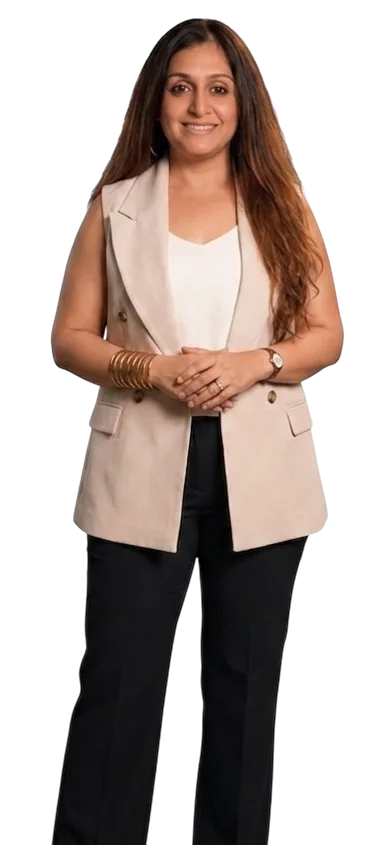
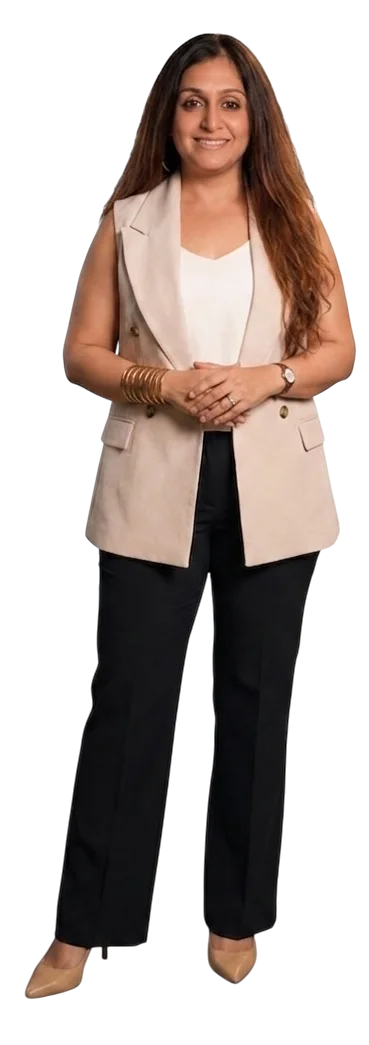
updated loading animation[1]

diff --git a/components/about/FounderSpotlight.tsx b/components/about/FounderSpotlight.tsx
@@ -10,66 +10,74 @@ export function FounderSpotlight() {
 
   return (
     <section className="bg-kio-primary relative overflow-hidden">
-      {/* Transparent gradient wash- fades accent colours into the dark
-          section background rather than a flat tint. */}
-      <div
-        aria-hidden="true"
-        className="pointer-events-none absolute inset-0"
-        style={{
-          background:
-            "radial-gradient(ellipse 65% 55% at 78% 45%, rgba(59,130,246,0.16), transparent 70%), radial-gradient(ellipse 45% 40% at 10% 85%, rgba(6,182,212,0.10), transparent 70%)",
-        }}
-      />
-
       {/* Whole section content (copy + photo) centered as one group- the
           negative margins let the photo overlap the text block's edge
           instead of the two halves sitting apart with dead space between. */}
       <div className="container-kio relative z-10 flex flex-col items-center gap-10 py-16 text-center md:py-20 lg:flex-row lg:justify-center lg:gap-0 lg:py-24 lg:text-left">
         {/* ── Left: copy ── */}
-        <div className="relative z-10 lg:-mr-10">
+        <div className="relative z-10 lg:-mr-10 lg:-translate-x-46">
           <RevealOnScroll>
             <p className="section-label">Founder</p>
           </RevealOnScroll>
 
           <RevealOnScroll delay={0.1}>
             <h2 className="mt-6 text-3xl font-bold text-white md:text-4xl lg:text-5xl">
-              Henal Dalal
+              HENAL DALAL
             </h2>
-            <div className="mx-auto mt-6 h-px max-w-md bg-white/15 lg:mx-0" />
+            
           </RevealOnScroll>
 
           <RevealOnScroll delay={0.2}>
             <blockquote className="relative mx-auto mt-8 max-w-md lg:mx-0">
               <Quote className="h-7 w-7 -scale-x-100 text-kio-accent/70" fill="currentColor" />
               <p className="mt-3 text-lg leading-relaxed text-white/80 sm:text-xl">
-                My dream is to make{" "}
-                <span className="text-color-cycle font-semibold">hospitality accessible to all without boundaries</span>, 24/7.
+                My dream is to make
+                <br />
+                <span className="text-color-cycle font-semibold">hospitality accessible </span>
+                <br />
+                <span className="text-white/80">to all without boundaries</span>,
+                <br />
+                <span className="text-color-cycle font-semibold">24/7.</span>
               </p>
             </blockquote>
           </RevealOnScroll>
         </div>
 
         {/* ── Right: photo ── */}
-        <motion.div
-          initial={rm ? false : { opacity: 0, x: 28 }}
-          whileInView={{ opacity: 1, x: 0 }}
-          viewport={{ once: true }}
-          transition={{ duration: 0.75, ease: [0.16, 1, 0.3, 1] }}
-          className="relative h-[420px] w-[280px] shrink-0 sm:h-[480px] sm:w-[320px] lg:-ml-12 lg:h-[600px] lg:w-[380px]"
-        >
-          {/* unoptimized: Next's AVIF re-encode flattens this PNG's
-              transparent background to opaque white- serving the source
-              file directly keeps the cutout transparent. */}
-          <Image
-            src="/img/team/ceo.png"
-            alt="Henal Dalal, Founder of Kiosist"
-            fill
-            priority
-            unoptimized
-            className="object-contain object-center scale-110"
-            sizes="(max-width: 1023px) 320px, 380px"
+        {/* Static positioning wrapper- framer-motion's own `animate` sets its
+            own inline `transform` (x) on its element, which would otherwise
+            clobber a Tailwind translate-x placed on the same node. */}
+        <div className="relative h-[420px] w-[280px] shrink-0 sm:h-[480px] sm:w-[320px] lg:-ml-12 lg:h-[600px] lg:w-[380px] lg:translate-x-20">
+          {/* Glow anchored to this wrapper- moves with the photo instead of
+              being pinned to a fixed percentage of the whole section. */}
+          <div
+            aria-hidden="true"
+            className="pointer-events-none absolute -inset-10 -z-10 rounded-full sm:-inset-14"
+            style={{
+              background: "radial-gradient(ellipse 60% 55% at 50% 45%, rgba(59,130,246,0.30), transparent 70%)",
+            }}
           />
-        </motion.div>
+          <motion.div
+            initial={rm ? false : { opacity: 0, x: 28 }}
+            whileInView={{ opacity: 1, x: 0 }}
+            viewport={{ once: true }}
+            transition={{ duration: 0.75, ease: [0.16, 1, 0.3, 1] }}
+            className="relative h-full w-full"
+          >
+            {/* unoptimized: Next's AVIF re-encode flattens this PNG's
+                transparent background to opaque white- serving the source
+                file directly keeps the cutout transparent. */}
+            <Image
+              src="/img/team/ceo.png"
+              alt="Henal Dalal, Founder of Kiosist"
+              fill
+              priority
+              unoptimized
+              className="object-contain object-center scale-110"
+              sizes="(max-width: 1023px) 320px, 380px"
+            />
+          </motion.div>
+        </div>
       </div>
     </section>
   );

diff --git a/components/global/AmbientGlow.tsx b/components/global/AmbientGlow.tsx
@@ -1,6 +1,7 @@
 "use client";
 
-import { motion, useReducedMotion } from "framer-motion";
+import { motion, useReducedMotion, useTransform } from "framer-motion";
+import { pageScrollY } from "@/lib/pageScroll";
 
 type Blob = {
   color: "accent" | "accent2";
@@ -9,7 +10,6 @@ type Blob = {
   bottom?: string;
   left?: string;
   right?: string;
-  x: number;
   y: number;
   scaleMin: number;
   scaleMax: number;
@@ -18,11 +18,40 @@ type Blob = {
 };
 
 /* Floating glow blobs- pulse between small and large while drifting
-   around their corner, shared across every page as the animated backdrop. */
+   left/right with scroll, shared across every page as the animated backdrop. */
 const BLOBS: Blob[] = [
-  { color: "accent",  size: 600, top: "-100px",   right: "-100px", x: 40,  y: -30, scaleMin: 0.85, scaleMax: 1.2,  duration: 10, delay: 0   },
-  { color: "accent2", size: 400, bottom: "50px",   left: "-80px",  x: -35, y: 40,  scaleMin: 0.8,  scaleMax: 1.25, duration: 13, delay: 2   },
+  { color: "accent",  size: 600, top: "-100px",   right: "-100px", y: -30, scaleMin: 0.85, scaleMax: 1.2,  duration: 10, delay: 0   },
+  { color: "accent2", size: 400, bottom: "50px",   left: "-80px",  y: 40,  scaleMin: 0.8,  scaleMax: 1.25, duration: 13, delay: 2   },
 ];
+
+function GlowBlob({ blob, rm, range }: { blob: Blob; rm: boolean | null; range: number }) {
+  const scrollX = useTransform(pageScrollY, [0, 2400], [-range, range]);
+
+  return (
+    <motion.div
+      className="absolute rounded-full"
+      style={{
+        width:  blob.size,
+        height: blob.size,
+        top:    blob.top,
+        bottom: blob.bottom,
+        left:   blob.left,
+        right:  blob.right,
+        x: rm ? 0 : scrollX,
+        background: `radial-gradient(circle, color-mix(in srgb, var(--kio-${blob.color}) ${blob.color === "accent" ? 30 : 20}%, transparent) 0%, transparent 70%)`,
+      }}
+      animate={
+        rm
+          ? {}
+          : {
+              scale: [blob.scaleMin, blob.scaleMax, blob.scaleMin],
+              y: [0, blob.y, 0],
+            }
+      }
+      transition={{ duration: blob.duration, repeat: Infinity, ease: "easeInOut", delay: blob.delay }}
+    />
+  );
+}
 
 export function AmbientGlow() {
   const rm = useReducedMotion();
@@ -30,29 +59,7 @@ export function AmbientGlow() {
   return (
     <div aria-hidden="true" className="pointer-events-none fixed inset-0 z-0 overflow-hidden">
       {BLOBS.map((b, i) => (
-        <motion.div
-          key={i}
-          className="absolute rounded-full"
-          style={{
-            width:  b.size,
-            height: b.size,
-            top:    b.top,
-            bottom: b.bottom,
-            left:   b.left,
-            right:  b.right,
-            background: `radial-gradient(circle, color-mix(in srgb, var(--kio-${b.color}) ${b.color === "accent" ? 30 : 20}%, transparent) 0%, transparent 70%)`,
-          }}
-          animate={
-            rm
-              ? {}
-              : {
-                  scale: [b.scaleMin, b.scaleMax, b.scaleMin],
-                  x: [0, b.x, 0],
-                  y: [0, b.y, 0],
-                }
-          }
-          transition={{ duration: b.duration, repeat: Infinity, ease: "easeInOut", delay: b.delay }}
-        />
+        <GlowBlob key={i} blob={b} rm={rm} range={i === 0 ? 140 : 100} />
       ))}
     </div>
   );

diff --git a/components/culture/EventsTimeline.tsx b/components/culture/EventsTimeline.tsx
@@ -71,30 +71,30 @@ export function EventsTimeline({ existingAssets = [] }: { existingAssets?: strin
                 <div className="absolute left-1/2 top-8 hidden h-4 w-4 -translate-x-1/2 rounded-full border-2 border-kio-accent bg-kio-bg md:block" />
 
                 {/* Content */}
-                <div className={`${i % 2 === 0 ? "md:pr-12" : "md:pl-12 md:[direction:ltr]"}`}>
-                  <div className="rounded-2xl bg-kio-bg p-8 shadow-sm ring-1 ring-kio-line transition-all hover:ring-kio-accent hover:shadow-md hover:shadow-kio-accent/10">
+                <div className={`h-full ${i % 2 === 0 ? "md:pr-12" : "md:pl-12 md:[direction:ltr]"}`}>
+                  <div className="flex h-full flex-col justify-center rounded-2xl bg-kio-bg p-8 shadow-sm ring-1 ring-kio-line transition-all hover:ring-kio-accent hover:shadow-md hover:shadow-kio-accent/10">
                     <div className="mb-4 flex flex-wrap gap-2">
                       {event.tags.map((t) => (
                         <span
                           key={t}
-                          className="rounded-full bg-kio-accent/10 px-3 py-0.5 text-xs font-medium text-kio-accent"
+                          className="rounded-full bg-kio-accent/10 px-3 py-1 text-sm font-medium text-kio-accent"
                         >
                           {t}
                         </span>
                       ))}
                     </div>
-                    <h3 className="text-lg font-bold text-kio-ink">{event.name}</h3>
-                    <div className="mt-3 flex flex-wrap gap-4 text-sm text-kio-muted">
+                    <h3 className="text-2xl font-bold text-kio-ink">{event.name}</h3>
+                    <div className="mt-3 flex flex-wrap gap-4 text-base text-kio-muted">
                       <span className="flex items-center gap-1">
-                        <MapPin className="h-4 w-4 text-kio-accent" />
+                        <MapPin className="h-5 w-5 text-kio-accent" />
                         {event.location}
                       </span>
                       <span className="flex items-center gap-1">
-                        <Calendar className="h-4 w-4 text-kio-accent" />
+                        <Calendar className="h-5 w-5 text-kio-accent" />
                         {event.month} {event.year}
                       </span>
                     </div>
-                    <p className="mt-4 text-sm leading-relaxed text-kio-muted">
+                    <p className="mt-4 text-base leading-relaxed text-kio-muted">
                       {event.description}
                     </p>
                   </div>
@@ -102,7 +102,7 @@ export function EventsTimeline({ existingAssets = [] }: { existingAssets?: strin
 
                 {/* Photo */}
                 <div className={i % 2 === 0 ? "md:pl-12" : "md:pr-12 md:[direction:ltr]"}>
-                  <div className="h-56 overflow-hidden rounded-2xl">
+                  <div className="aspect-[3/2] overflow-hidden rounded-2xl">
                     {existing.has(event.photo.split("/").pop()!) ? (
                       <SafeImage
                         src={event.photo}

diff --git a/lib/pageScroll.ts b/lib/pageScroll.ts
@@ -1,0 +1,8 @@
+import { motionValue } from "framer-motion";
+
+/* Shared scroll-position motion value, updated directly from Lenis's
+   own scroll loop (see SmoothScroll.tsx). Framer Motion's useScroll()
+   listens for native window "scroll" events, which can fall out of
+   sync with Lenis's animated scroll- reading Lenis's value directly
+   keeps consumers (e.g. AmbientGlow) in lockstep with what's on screen. */
+export const pageScrollY = motionValue(0);

diff --git a/components/global/Footer.tsx b/components/global/Footer.tsx
@@ -8,7 +8,10 @@ const FOOTER_COLS = [
       { href: "/about",     label: "About Us" },
 
       { href: "/clients",   label: "Clients" },
-      { href: "/career",    label: "Join Us" },
+      { href: "/career",    label: "Carrer" },
+      { href: "/culture",   label: "Culture" },
+      { href: "/contact",   label: "Contact Us" },
+      
     ],
   },
 

diff --git a/components/global/SmoothScroll.tsx b/components/global/SmoothScroll.tsx
@@ -2,6 +2,7 @@
 
 import { useEffect, useRef } from "react";
 import Lenis from "lenis";
+import { pageScrollY } from "@/lib/pageScroll";
 
 export function SmoothScroll({ children }: { children: React.ReactNode }) {
   const lenisRef = useRef<Lenis | null>(null);
@@ -18,7 +19,8 @@ export function SmoothScroll({ children }: { children: React.ReactNode }) {
 
     // Notify GSAP ScrollTrigger of scroll position on each Lenis tick
     // This makes pinned GSAP scenes work alongside Lenis smooth scroll
-    lenis.on("scroll", () => {
+    lenis.on("scroll", ({ scroll }: { scroll: number }) => {
+      pageScrollY.set(scroll);
       // Dynamically access ScrollTrigger only if GSAP has been loaded
       const gsapInstance = (window as Window & { gsap?: { ScrollTrigger?: { update: () => void } } }).gsap;
       gsapInstance?.ScrollTrigger?.update();

diff --git a/components/about/AboutIntro.tsx b/components/about/AboutIntro.tsx
@@ -103,7 +103,7 @@ export function AboutIntro() {
 
           {/* Headline */}
           <h1 className="text-3xl font-black leading-[1.08] text-white md:text-4xl lg:text-5xl">
-            We are the<br />
+            We are <br />
             <span className="text-gradient-shimmer">Guest&apos;s First Hello.</span>
           </h1>
 

diff --git a/components/home/TeamMosaic.tsx b/components/home/TeamMosaic.tsx
@@ -227,7 +227,7 @@ export function TeamMosaic() {
         <RevealOnScroll className="mb-16 text-center">
           <span className="section-label">Our Team</span>
           <h2 className="mt-3 text-3xl font-bold text-kio-ink md:text-4xl lg:text-5xl">
-            The faces behind{" "}
+            Faces behind{" "}
             <span className="text-gradient">the front desk</span>
           </h2>
           <p className="mx-auto mt-4 max-w-xl text-base text-kio-muted">